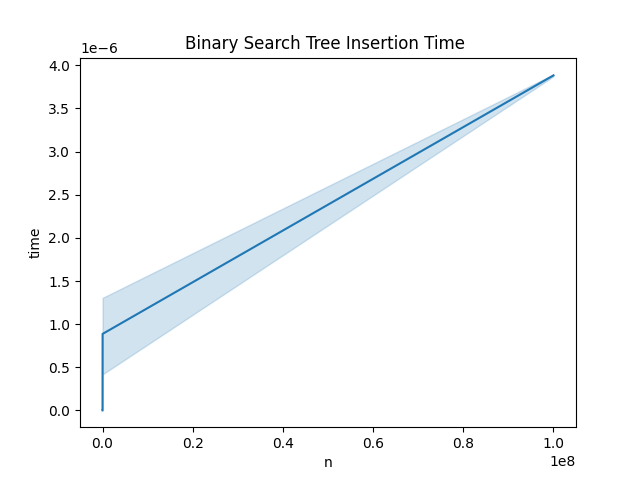
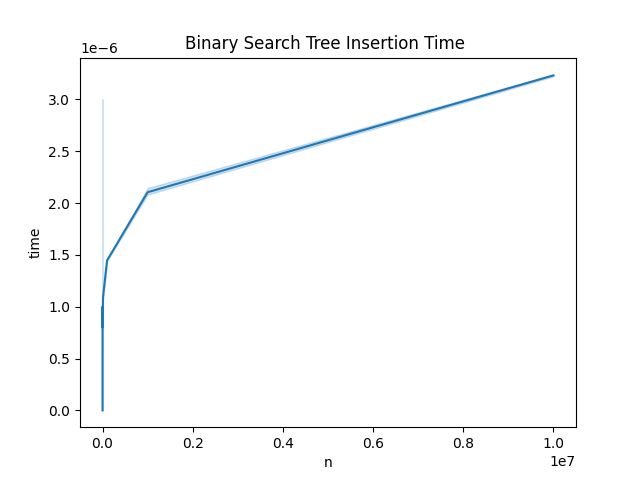
Update image

diff --git a/Hash Table vs BST/main.py b/Hash Table vs BST/main.py
@@ -12,45 +12,53 @@ def measure_times(datastructure, dataset):
     :param datastructure: Data structure to measure
     :param dataset: Dictionary mapping size of input to list of run times
     """
+    
     start = 0
     end = 0
     random.seed(0)
     n = 10
-    while True:
+    while end - start < 3:
+        # Generate random array of size n
         arr = [random.randint(0, n) for _ in range(n)]
+        
         if dataset.get(n) == None:
             dataset[n] = []
+        
+        # Measure run time if data structure is a dictionary
         if type(datastructure) == dict:
             start = time.time()
             for i in arr:
                 datastructure[i] = i
             end = time.time()
             dataset[n].append((end - start) / n) # Average time per element
+        # Measure run time if data structure is a sorted list
         else:
             start = time.time()
             for i in arr:
                 datastructure.add(i)
             end = time.time()
             dataset[n].append((end - start) / n)
-        n = n**2
-        if end - start >=3:
-            print(type(datastructure),"  n: ",n)
-            break
+        # Increase size of input
+        n = n*10
+    print(type(datastructure),"  n: ",n)
             
-        # print result
-        #print(type(datastructure),"  Data Set: ",dataset)
 
 if __name__ == "__main__":
+    # Data structures
     hashtable = {}
     multiset = sortedlist.SortedList()
 
+    # Dictionary mapping size of input to list of run times
     hashtable_times = {}
     multiset_times = {}
 
     for i in range(10):
+        # Measure run times
         measure_times(hashtable, hashtable_times)
-        hashtable = {}
         measure_times(multiset, multiset_times)
+
+        # Reset data structures
+        hashtable = {}
         multiset = sortedlist.SortedList()
 
     # Plot results
